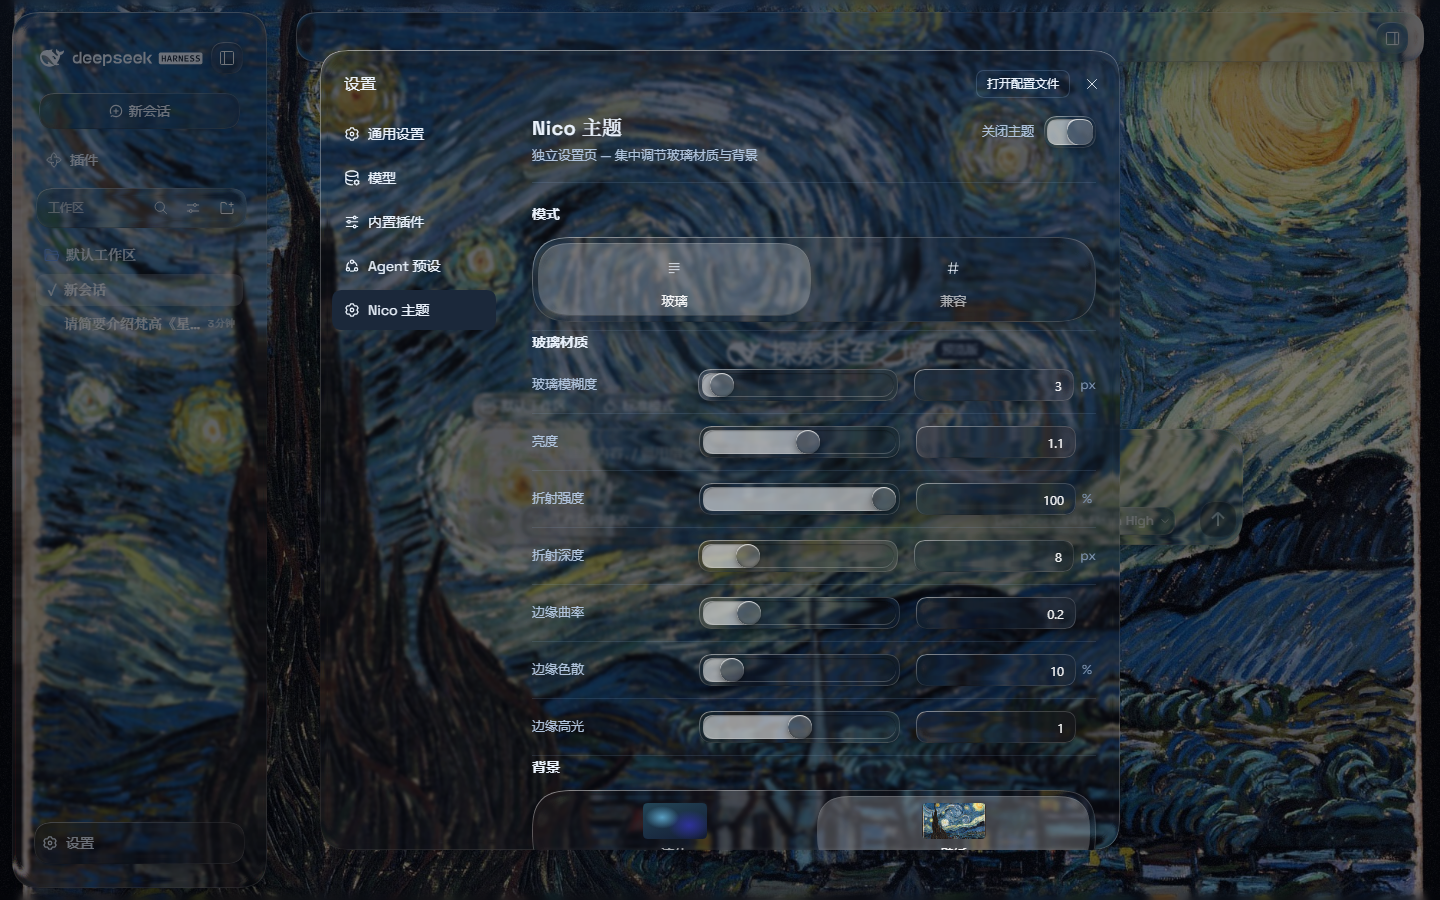
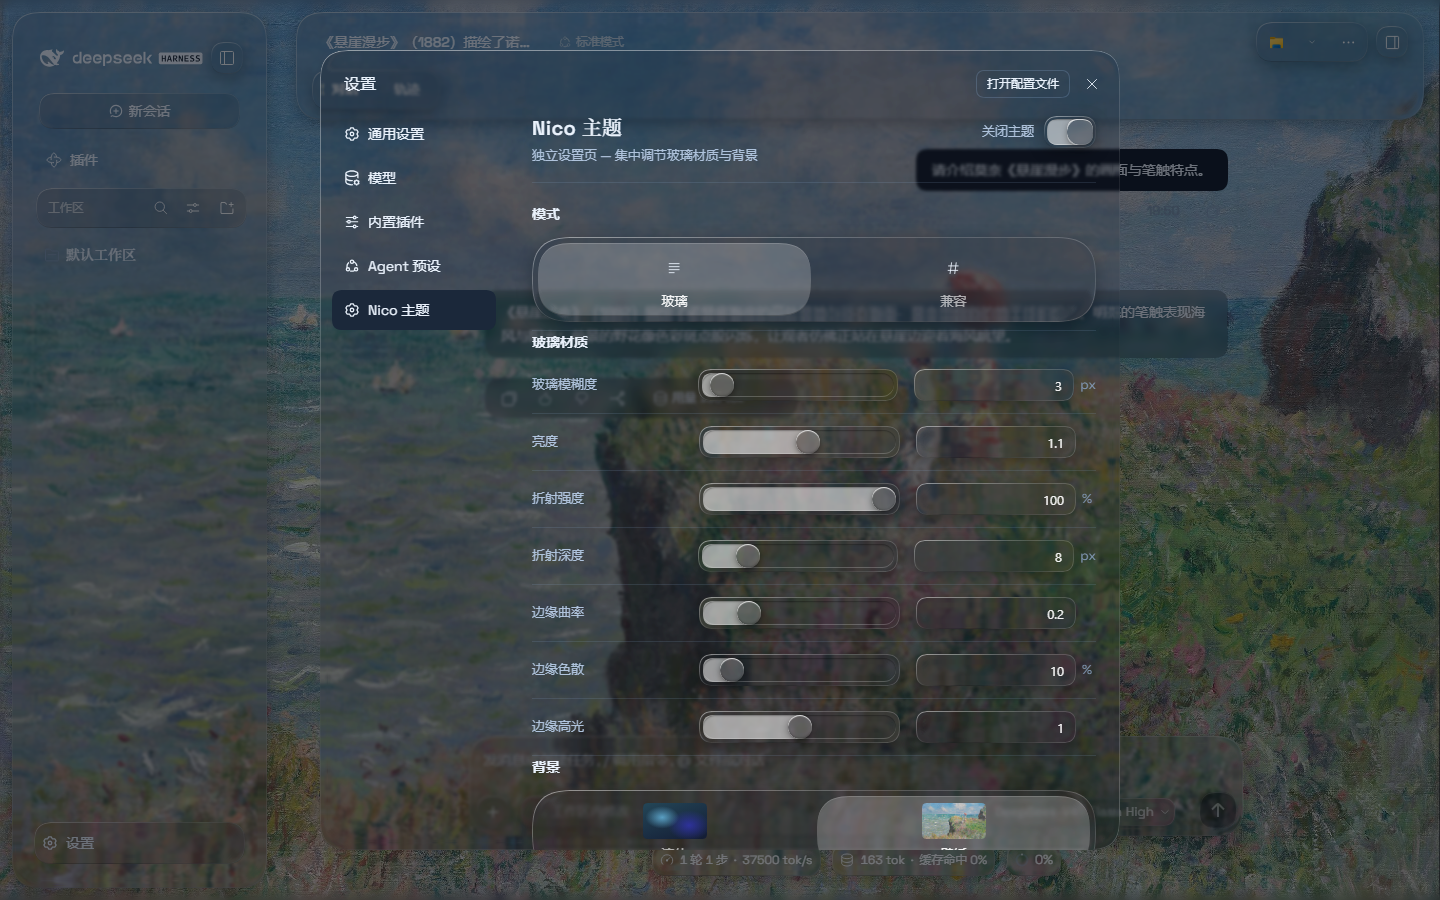
docs: add dark Cliff Walk screenshots

diff --git a/README.md b/README.md
@@ -42,17 +42,17 @@ A DSH client plugin. The panel glass is rendered by [nico-glass-kit](https://git
 
 ## Gallery
 
-**Start screen** — fluid backdrop under the glass composer.
+**Mock conversation** — a successful, synthetic art-history exchange over the dark glass UI.
 
 <p>
-  <img src="assets/hero-dark.png" alt="Home screen in dark mode, fluid backdrop and glass composer" width="100%">
+  <img src="assets/hero-dark.png" alt="Dark-mode mock conversation about Monet's Cliff Walk at Pourville" width="100%">
 </p>
 
-**Theme settings and rail** — glass controls and the collapsed sidebar over Starry Night.
+**Theme settings and rail** — glass controls and the collapsed sidebar over Monet's *Cliff Walk at Pourville*.
 
 <p>
-  <img src="assets/chat-dark.png" alt="Nico Theme glass and Starry Night wallpaper settings" width="49%">
-  <img src="assets/rail-dark.png" alt="Collapsed sidebar rail over the dark fluid backdrop" width="49%">
+  <img src="assets/chat-dark.png" alt="Nico Theme settings over Cliff Walk at Pourville" width="49%">
+  <img src="assets/rail-dark.png" alt="Collapsed sidebar rail over Cliff Walk at Pourville" width="49%">
 </p>
 
 **Settings** — the Nico Theme page carries every material knob; the clip drags the wallpaper blur to 3px.
@@ -108,7 +108,7 @@ pnpm install
 pnpm bundle          # tsdown + lib/types/*.d.ts
 pnpm typecheck       # tsc --noEmit against the installed DSH client packages
 pnpm visual          # Playwright checks against the test profile
-pnpm readme-shots    # refresh the dark-fluid images in assets/
+pnpm readme-shots    # refresh dark-mode images (set NICO_WALLPAPER; optional NICO_THEME_DEMO_TITLE selects one named local demo session)
 pnpm readme-gifs     # record assets/*.gif (needs NICO_THEME_URL; settings clip also needs NICO_WALLPAPER)
 ```
 
@@ -123,4 +123,4 @@ Maintainers: `npm login`, then `git tag v0.1.0 && git push origin v0.1.0`. GitHu
 - Fork of [DSH-Transparent-UI-Plugin](https://github.com/WYH66666666/DSH-Transparent-UI-Plugin) (MIT)
 - Glass material from [nico-glass-kit](https://github.com/more-nico/nico-glass-kit) (MIT)
 
-Screenshots and clips in `assets/` were recorded on a local test profile over Vincent van Gogh's *The Starry Night* (1889, public domain).
+The still PNG screenshots in `assets/` were captured in dark mode on an isolated local test profile over Claude Monet's *Cliff Walk at Pourville* (1882). The Art Institute rights record is listed as CC0 by [Open Museum](https://open-museum.art/art/aic:14620); this [Wikimedia Commons reproduction](https://commons.wikimedia.org/wiki/File:Claude_Monet_-_Cliff_Walk_at_Pourville_-_Google_Art_Project.jpg) is marked Public Domain. The conversation screenshot uses a canned response from a local-only mock endpoint; it contains no real account or conversation data.
